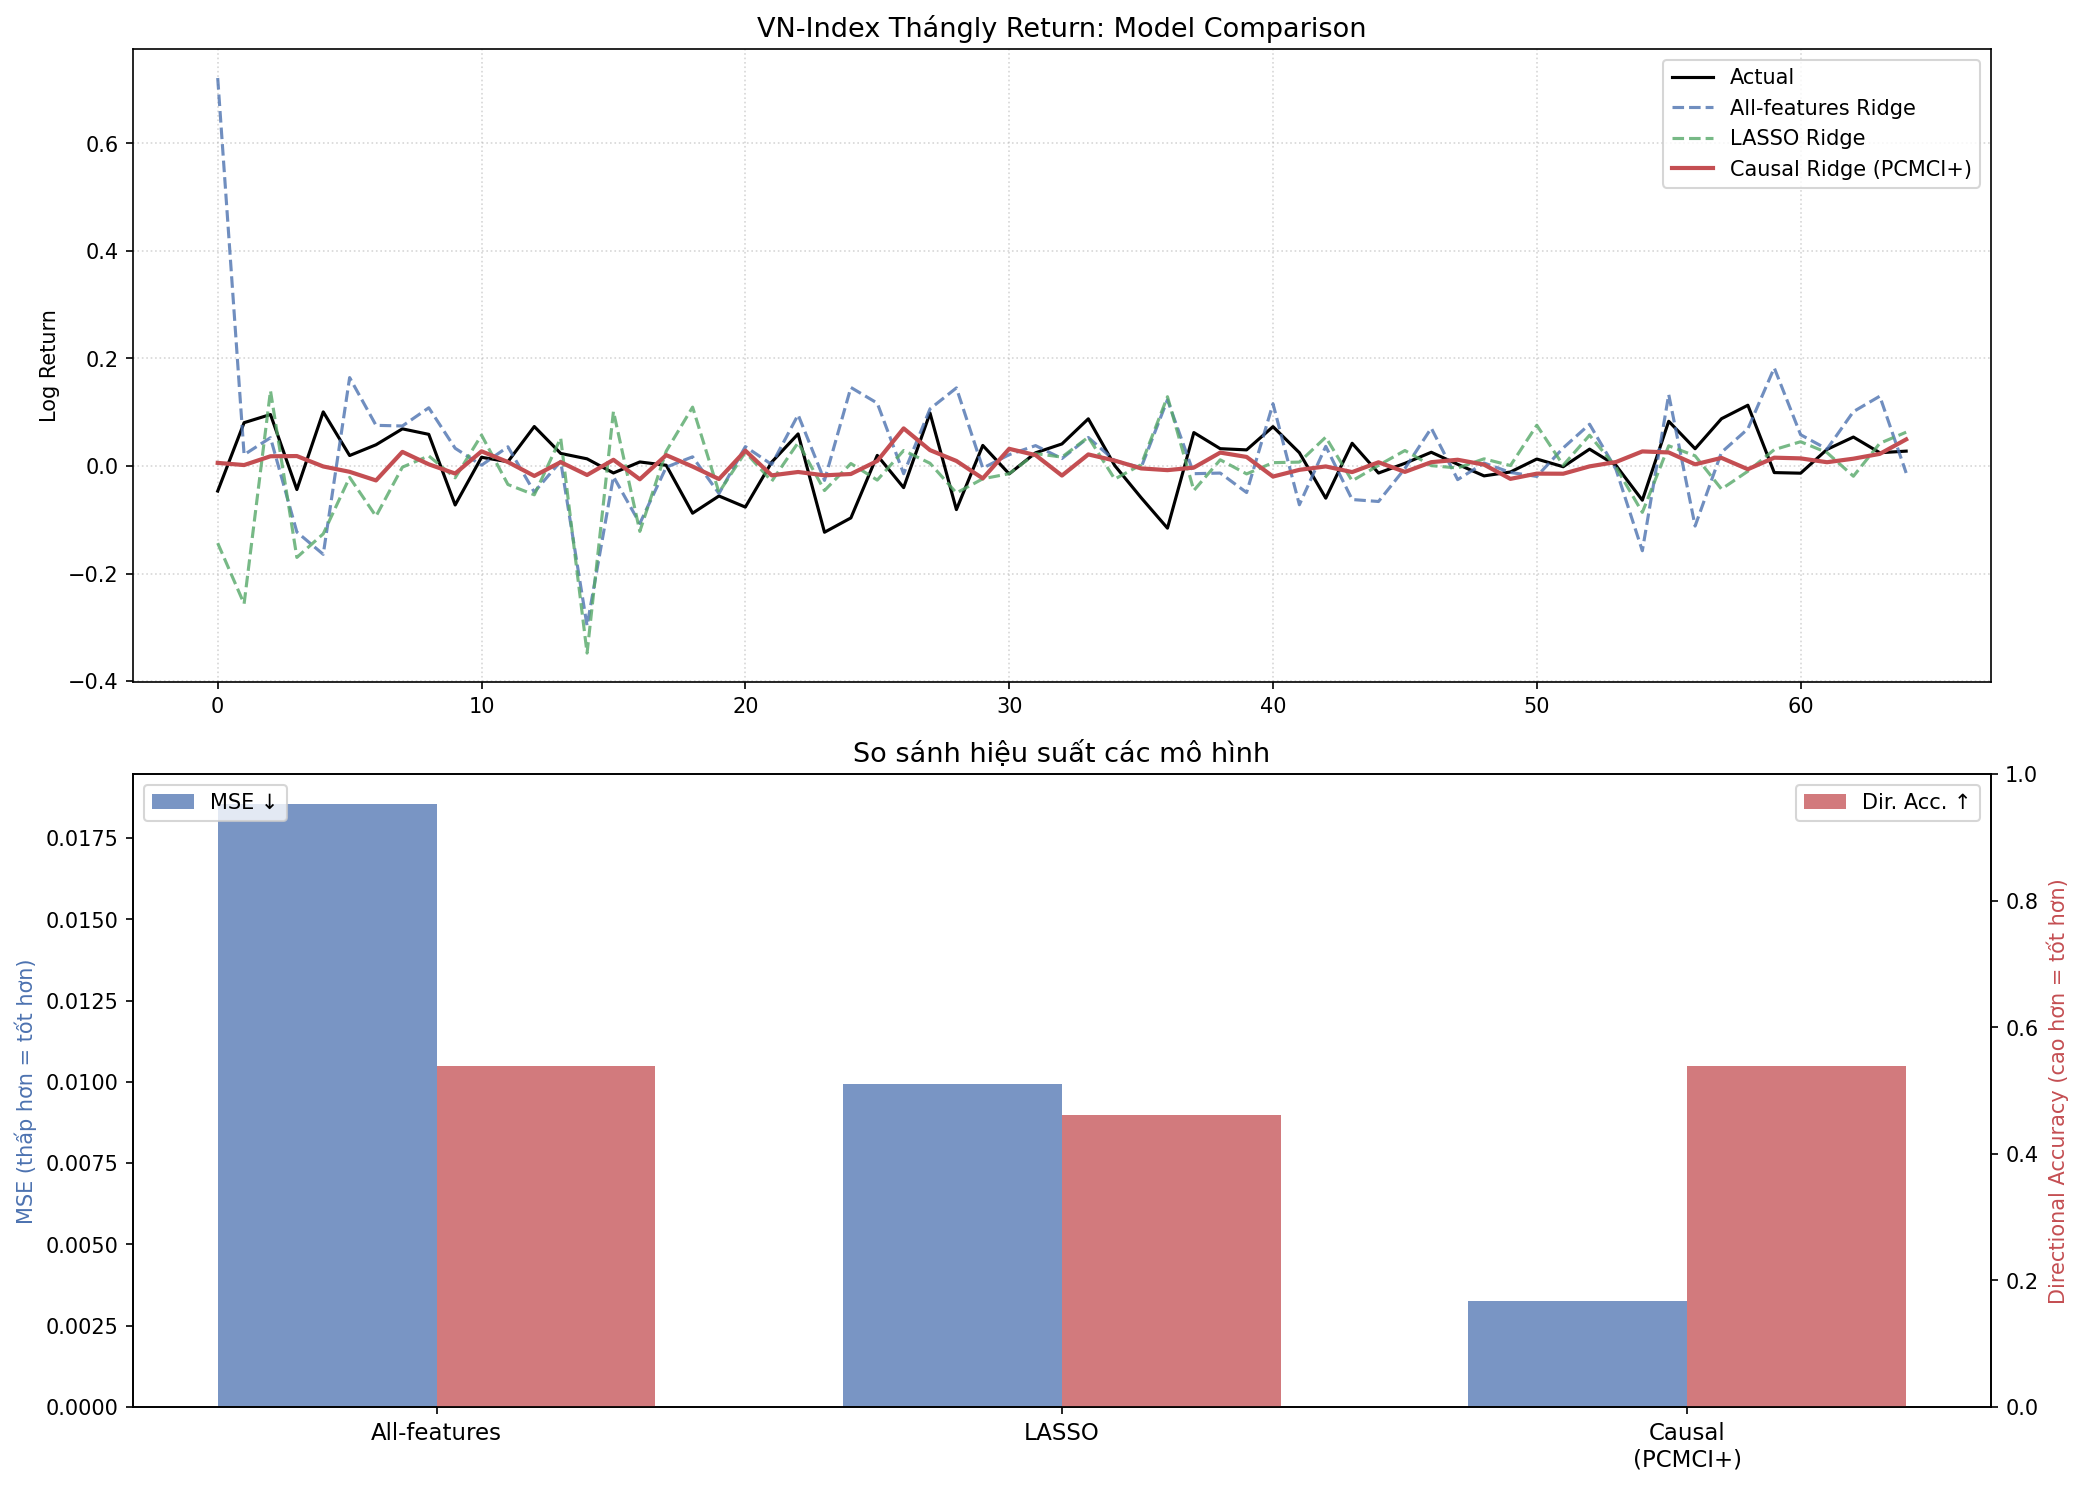
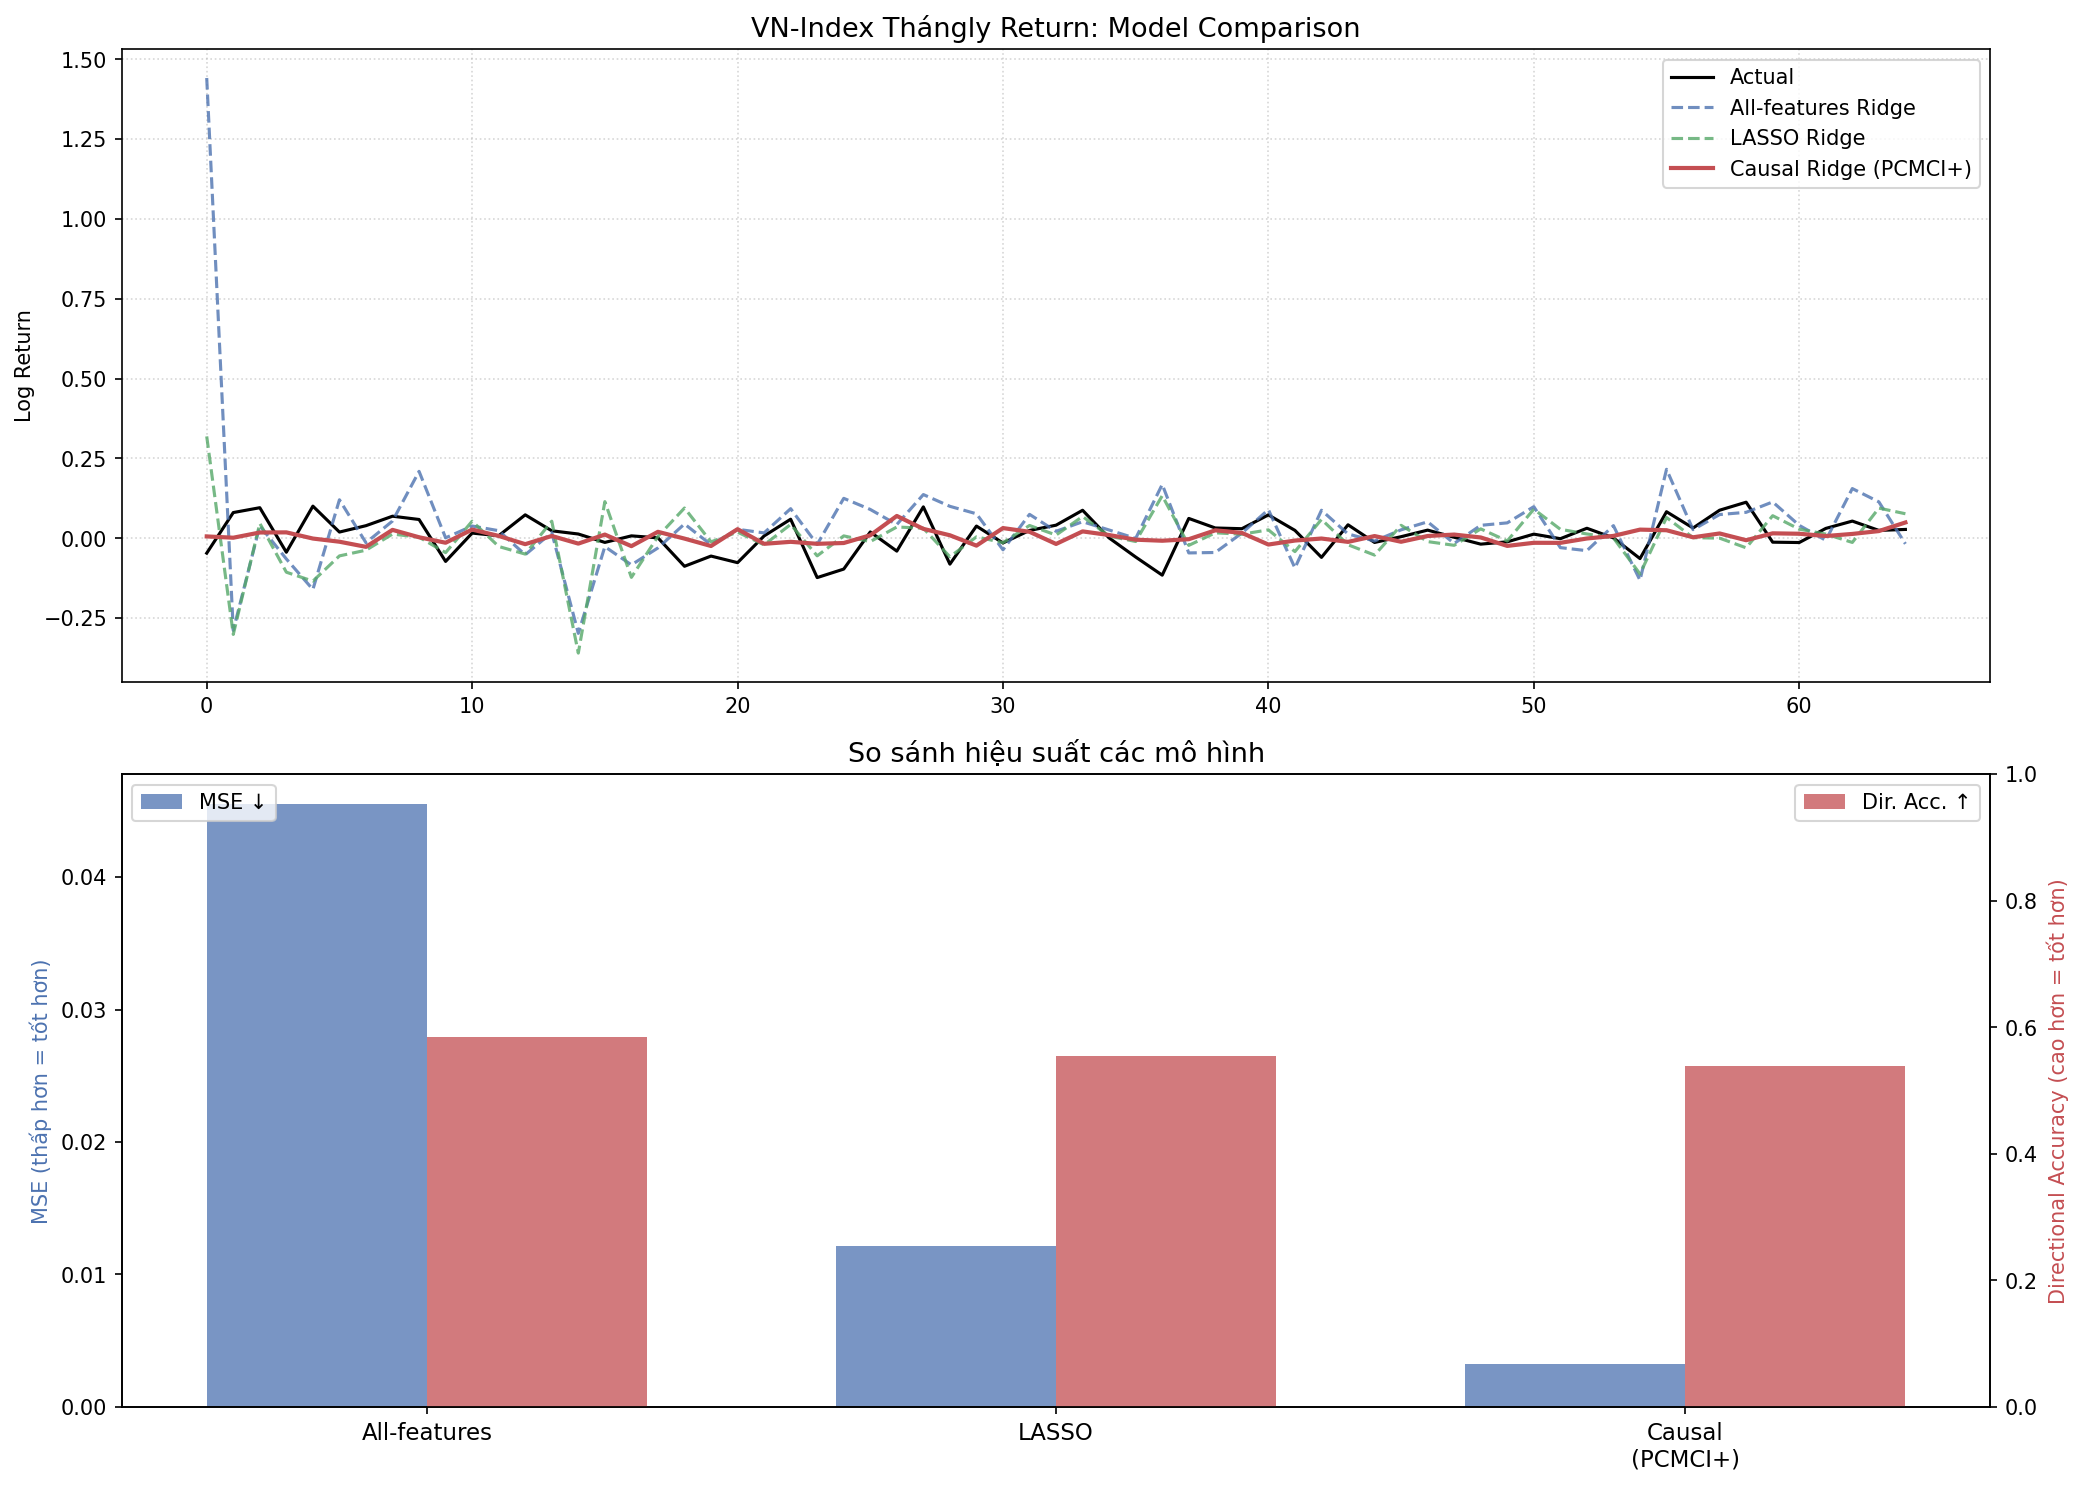
feat: add backfill_content.py script and update LDA model files and visualization assets

diff --git a/backfill_content.py b/backfill_content.py
@@ -1,0 +1,152 @@
+"""
+backfill_content.py — Lấy content cho các bài chưa có trong vneconomy_raw.csv
+
+Cách chạy:
+  python backfill_content.py          # back-fill tất cả bài thiếu content
+  python backfill_content.py --demo   # chỉ 20 bài để test
+"""
+
+import sys
+import time
+import random
+import logging
+from pathlib import Path
+
+import requests
+from bs4 import BeautifulSoup
+import pandas as pd
+
+# ------------------------------------------------------------------
+DATA_DIR    = Path(__file__).parent / "Data"
+OUTPUT_FILE = DATA_DIR / "vneconomy_raw.csv"
+CKPT_FILE   = DATA_DIR / ".backfill_checkpoint.txt"  # lưu index đã xong
+
+DELAY    = (0.5, 1.0)
+MAX_RETRY = 3
+
+HEADERS = {
+    "User-Agent": (
+        "Mozilla/5.0 (Macintosh; Intel Mac OS X 10_15_7) "
+        "AppleWebKit/537.36 (KHTML, like Gecko) "
+        "Chrome/124.0.0.0 Safari/537.36"
+    ),
+    "Accept-Language": "vi-VN,vi;q=0.9",
+    "Referer": "https://vneconomy.vn/",
+}
+
+logging.basicConfig(level=logging.INFO,
+                    format="%(asctime)s  %(message)s",
+                    datefmt="%H:%M:%S")
+log = logging.getLogger(__name__)
+
+
+def _fetch_content(session: requests.Session, url: str) -> str:
+    """Fetch bài và trả về full body text."""
+    for attempt in range(1, MAX_RETRY + 1):
+        try:
+            r = session.get(url, timeout=15)
+            if r.status_code == 404:
+                return ""
+            if r.status_code != 200:
+                time.sleep(2 ** attempt)
+                continue
+            r.encoding = "utf-8"
+            soup = BeautifulSoup(r.text, "html.parser")
+
+            # Thử selector cụ thể trước
+            body = None
+            for sel in [".article__body", ".detail__body", ".cms-body"]:
+                el = soup.select_one(sel)
+                if el:
+                    body = el
+                    break
+
+            if body:
+                paras = [p.get_text(strip=True)
+                         for p in body.find_all("p")
+                         if len(p.get_text(strip=True)) > 20]
+            else:
+                container = soup.select_one("article, main, .article, .detail")
+                if container:
+                    paras = [p.get_text(strip=True)
+                             for p in container.find_all("p")
+                             if len(p.get_text(strip=True)) > 20]
+                else:
+                    paras = []
+
+            return " ".join(paras)
+
+        except Exception as e:
+            log.debug(f"  Lỗi (lần {attempt}): {e}")
+            time.sleep(2 ** attempt)
+    return ""
+
+
+def backfill(demo: bool = False) -> None:
+    # Load CSV
+    log.info(f"Đọc {OUTPUT_FILE}...")
+    df = pd.read_csv(OUTPUT_FILE, dtype=str)
+    df["content"] = df["content"].fillna("")
+
+    # Tìm các hàng thiếu content
+    missing_idx = df.index[df["content"] == ""].tolist()
+    log.info(f"Tổng bài thiếu content: {len(missing_idx):,}")
+
+    if demo:
+        missing_idx = missing_idx[:20]
+        log.info("DEMO MODE: chỉ back-fill 20 bài.")
+
+    # Resume từ checkpoint
+    start_pos = 0
+    if CKPT_FILE.exists():
+        try:
+            start_pos = int(CKPT_FILE.read_text().strip())
+            log.info(f"Resume từ vị trí {start_pos}/{len(missing_idx)}")
+        except Exception:
+            pass
+
+    missing_idx = missing_idx[start_pos:]
+    if not missing_idx:
+        log.info("Không còn bài nào cần back-fill.")
+        return
+
+    session = requests.Session()
+    session.headers.update(HEADERS)
+
+    filled = 0
+    SAVE_EVERY = 100
+
+    for pos, idx in enumerate(missing_idx, start=start_pos):
+        url = df.at[idx, "url"]
+        time.sleep(random.uniform(*DELAY))
+
+        content = _fetch_content(session, url)
+        df.at[idx, "content"] = content
+
+        if content:
+            filled += 1
+
+        # Lưu định kỳ
+        if (pos + 1) % SAVE_EVERY == 0:
+            df.to_csv(OUTPUT_FILE, index=False)
+            CKPT_FILE.write_text(str(pos + 1))
+            log.info(
+                f"  [{pos+1}/{start_pos + len(missing_idx)}] "
+                f"Đã fill: {filled} | Lưu checkpoint."
+            )
+
+    # Lưu lần cuối
+    df.to_csv(OUTPUT_FILE, index=False)
+    if CKPT_FILE.exists():
+        CKPT_FILE.unlink()
+
+    log.info(f"\n{'='*50}")
+    log.info(f"HOÀN THÀNH!")
+    log.info(f"  Đã back-fill: {filled:,}/{len(missing_idx):,} bài")
+    log.info(f"  File: {OUTPUT_FILE}")
+    log.info(f"{'='*50}")
+
+
+if __name__ == "__main__":
+    demo = "--demo" in sys.argv
+    backfill(demo=demo)